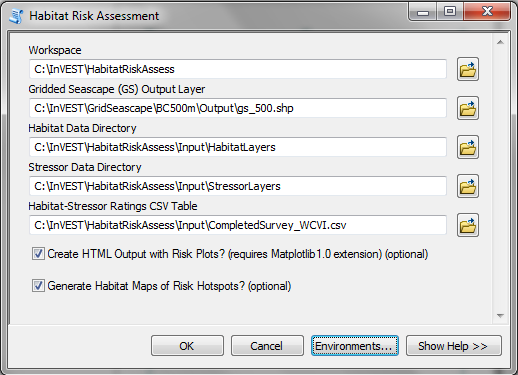
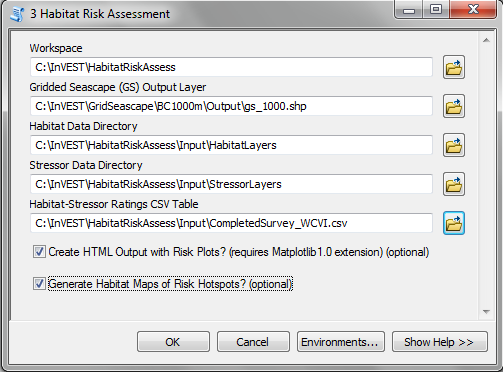
Last few updates to HRA UG.

diff --git a/source/habitat_risk_assessment.rst b/source/habitat_risk_assessment.rst
@@ -330,6 +330,7 @@ There are 5 main steps to running this survey tool.  At any time, the user can c
 
 .. figure:: habitat_risk_assessment_images/image020.png
 
+
 For example, the user could change the areal extent categories to reflect a different set of cut off points for the low, mediium and high changes in area of habitat due to a stressor.
 
 .. figure:: habitat_risk_assessment_images/image021.png
@@ -337,6 +338,7 @@ For example, the user could change the areal extent categories to reflect a diff
 3. Decide whether to edit the number and names of stressors and habitats and the scores for any of the exposure and consequence criteria.  These data are required to run the model. Choose "no" if you are satisified with the data you imported or the sample data. Rating the quality of each dataset and score is optional.
 
 .. figure:: habitat_risk_assessment_images/image022.png
+
 
 For example, the survey prompts the user to enter the number and names of all stressors.
 
@@ -354,7 +356,7 @@ For example, the survey prompts the user to enter the number and names of all st
 Grid the Seascape tool
 ----------------------
 
-Before running the HRA model, users must provide an area of interest (AOI) and cell size to Grid the Seascape (GS).  To run the GS tool, the user must create a polygon AOI that is projected meters. You can create an AOI shapefile by following the Creating an AOI instructions in the :ref:`FAQ`.  After providing a workspace location and AOI, select a cell size to define width and height of each unique grid cell.  By specifying "1000" in the interface, an analysis grid within the AOI at a cell size of 1000m x 1000m will be created.
+Before running the HRA model, users must provide an area of interest (AOI) and cell size to Grid the Seascape (GS).  To run the GS tool, the user must create a polygon AOI that is projected meters. You can create an AOI shapefile by following the Creating an AOI instructions in the :ref:`FAQ`.  After providing a workspace location and AOI, select a cell size to define width and height of each unique grid cell.  By specifying "1000" in the interface, an analysis grid within the AOI at a cell size of 1000 by 1000 meters (1km) will be created.
 
 .. figure:: habitat_risk_assessment_images/image015_350.png
 
@@ -454,7 +456,7 @@ The following example of setting up the HRA model uses the sample data and folde
 
    .. figure:: habitat_risk_assessment_images/image034.png
 
-4. Specify the Analysis Zones Layer. This input is the actual layer to be used for the overlap analysis.  Depending on your choice for the previous input, click |folder| and path to \\InVEST\\GridSeascape\\ directory and select the polygon shapefile in the "Output" folder from a successful GS tool run.
+4. Specify the Grid the Seascape (GS) Output Layer.  This input is the actual layer to be used for the overlap analysis.  Click |folder| and path to \\InVEST\\GridSeascape\\ directory and select the polygon shapefile in the "Output" folder from a successful GS tool run.
 
    .. figure:: habitat_risk_assessment_images/image036.png
 
